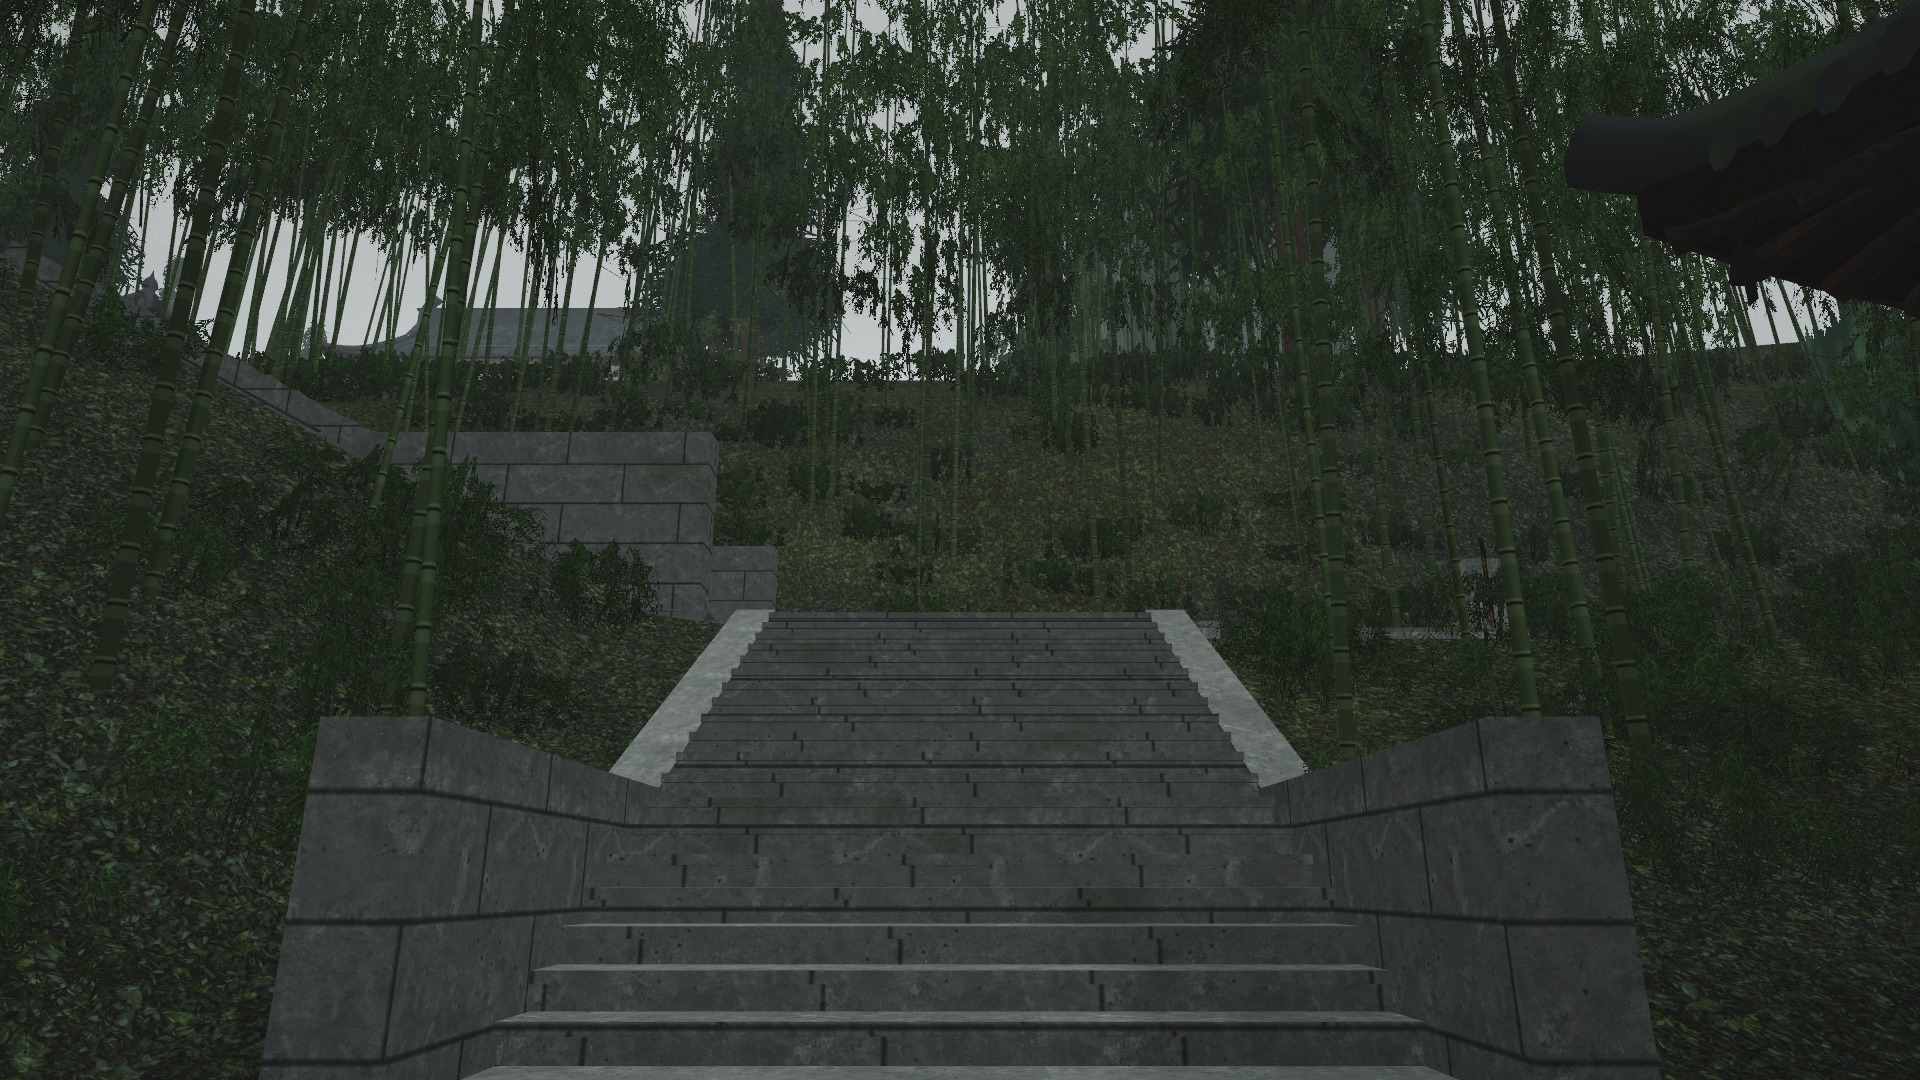
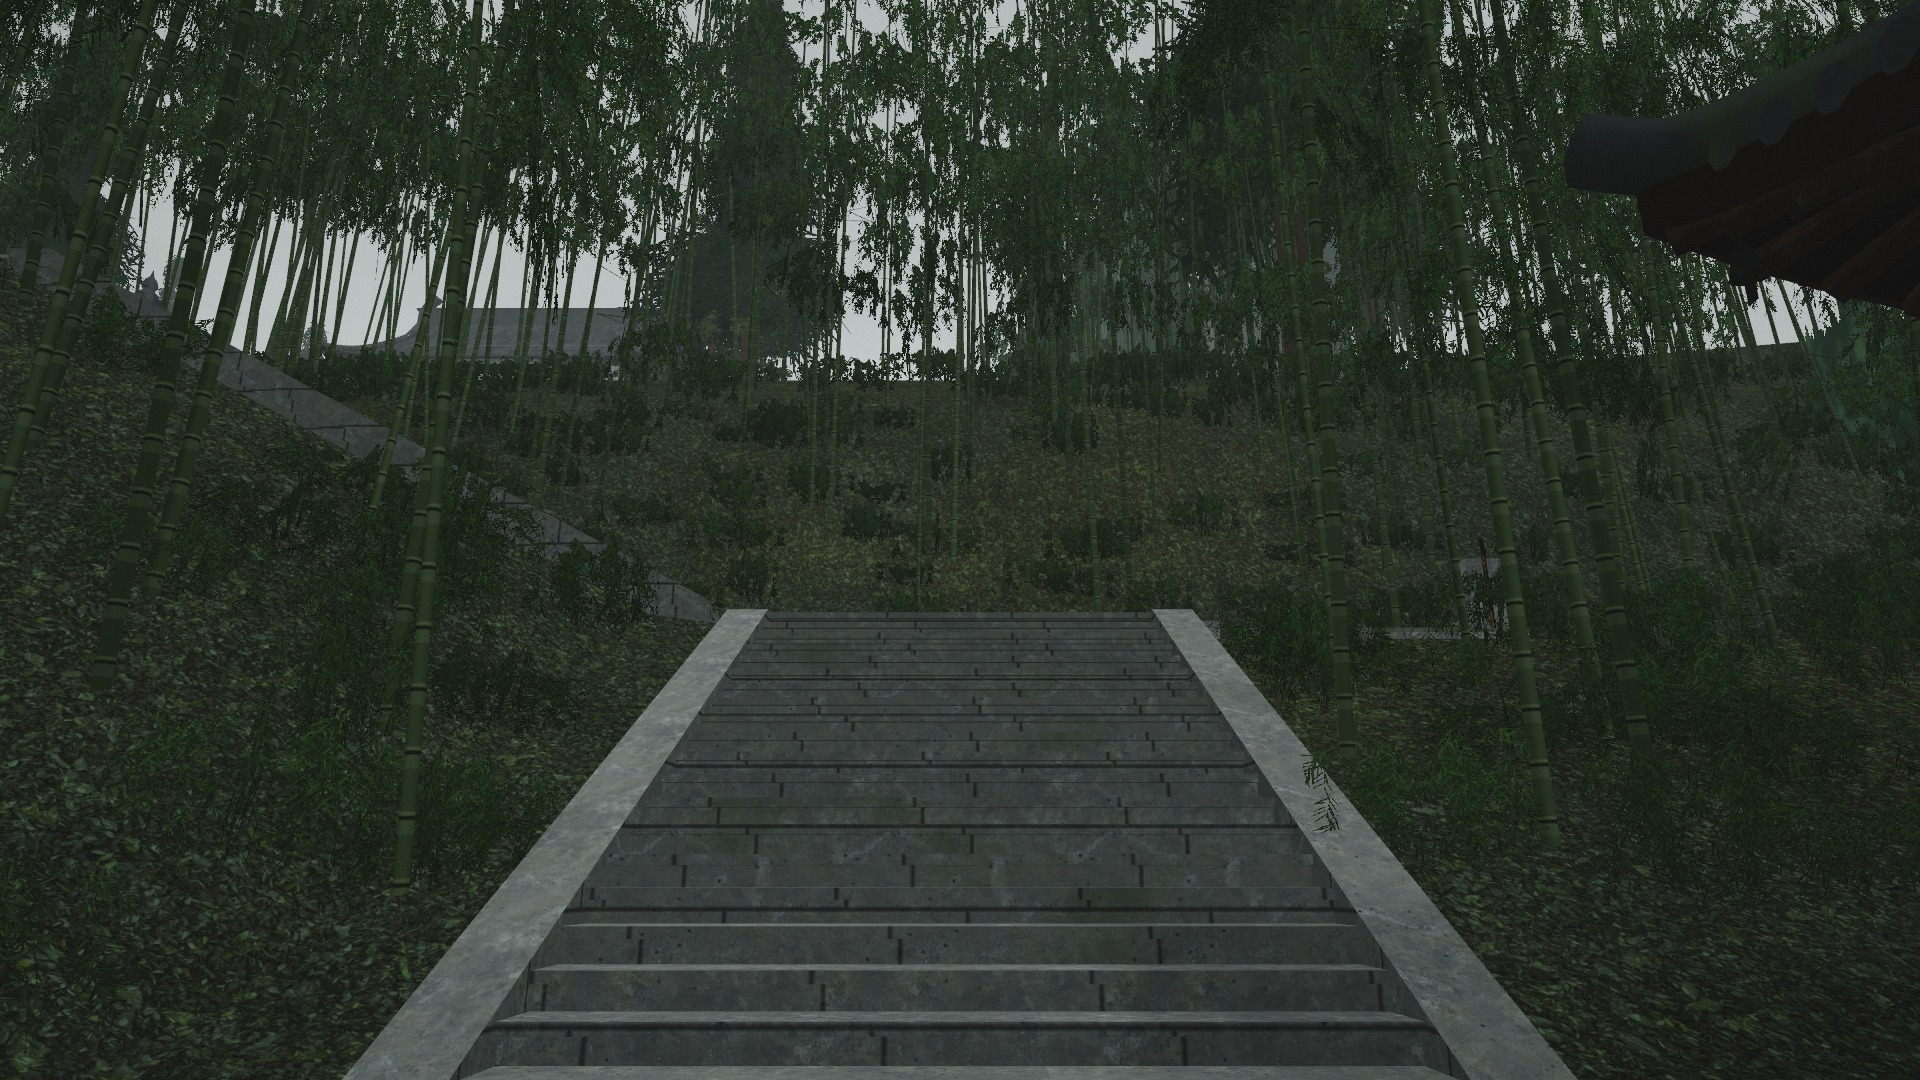
docs(t00): 重拍 CAM-01、CAM-02、CAM-06 证据图 (#37)
台阶垂带重做（#33）后进山石阶两侧的「墙」没有了，CAM-01、CAM-02 的画面变了；殿前一对小柏在 034015a 重立过，CAM-06 的旧图也不是现状。

三张都出自同一次任务：tools/gpu-render.sh 在一台 T4 上打开真实页面，对 a7c7772 拍 1920×1080，转成质量 92 的 JPEG，页面没有报错。manifest.json 里这三张更新了字节数和 SHA-256，并各带自己的提交号和时间；其余文件仍出自清单顶上写的 420fcdc。同一次任务里 CAM-03、04、05 与原图只差 JPEG 噪声，没有换。

录像、帧记录、控制台记录和 performance.json 没有重录。验收结论没有改动；ART-08、NEW-02 仍要评审对着新图判断。delivery.json、acceptance-report.json 的备注、docs/t00/README.md、docs/HANDOFF.md 里「没有重拍」的说法改成现状。

验证：清单十一个文件的校验值核对过；pnpm run check 与 138 条单元测试通过。只改文档和图片，不发布网站。

Claude-Session: https://claude.ai/code/session_01Cq65vK68wa818nuuyM44XA

diff --git a/docs/HANDOFF.md b/docs/HANDOFF.md
@@ -495,7 +495,8 @@ three.js，换了等于重写，测试和性能调校都得重来。值得接的
 **验收范围里的画面变了，要重看。** 进山三段石阶下半段两侧原来那两堵「墙」（`stair`、`cam01`、`cam02` 里都有）就是上面
 说的平顶方块：6 m 高的那段，方块顶在 2.9 m。现在没有了，两侧是沿坡的垂带石，外面直接是竹林和山坡。
 `docs/t00/KNOWN-ISSUES.md` 的 ART-08（两侧墙没有压顶）和 NEW-02（砌缝延到墙上）说的就是那两堵墙，要对着新图重新判断；
-`docs/t00/evidence/` 里的图没有重拍，验收项一条也没有改动。如果想要石阶两侧真的有挡墙，应当在 `site.js` 里当作一件
+`docs/t00/evidence/M4/` 的 CAM-01、CAM-02 已在 a7c7772 上用 T4 重拍，CAM-06 也一并换了（殿前小柏在 034015a 重立过，旧图已不是
+现状）；清单里这三张各带自己的提交号。同一次任务里 CAM-03、04、05 和原图一样，没有换，验收项一条也没有改动。如果想要石阶两侧真的有挡墙，应当在 `site.js` 里当作一件
 东西来建，不要再靠垂带。
 
 ## 冬天：殿内的雪、雪地脚印（2026-11-15）

diff --git a/docs/t00/README.md b/docs/t00/README.md
@@ -11,7 +11,7 @@
 | D01 可运行场景 | [RUN.md](RUN.md)，仓库本身 | 有 |
 | D02 工程基线与变更 | [project-baseline.json](project-baseline.json)、[decisions.md](decisions.md)、[CHANGELOG.md](CHANGELOG.md) | 有；目标设备未锁定 |
 | D03 场景与相机 | [scene-spec.json](scene-spec.json)、[camera-manifest.json](camera-manifest.json)；`?show=cam01`…`cam06` | 有 |
-| D04 六机位运行截图 | `evidence/M2-before/`（改之前）、`evidence/M4/CAM-01.jpg`…`CAM-06.jpg` | 有，T4 上的真实页面 |
+| D04 六机位运行截图 | `evidence/M2-before/`（改之前）、`evidence/M4/CAM-01.jpg`…`CAM-06.jpg` | 有，T4 上的真实页面（CAM-01、02、06 于 a7c7772 重拍） |
 | D05 连续行走录像 | `evidence/M4/walkthrough.webm` | 有，webm 而非 mp4，程序行走（diagnostic） |
 | D06 性能证据 | [performance.json](performance.json)、`evidence/M4/frame-times.csv`、`evidence/M4/console.txt` | **只有 T4；目标设备 blocked** |
 | D07 资产与权利 | [asset-register.csv](asset-register.csv) | 有；佛像模型授权待所有者确认 |
